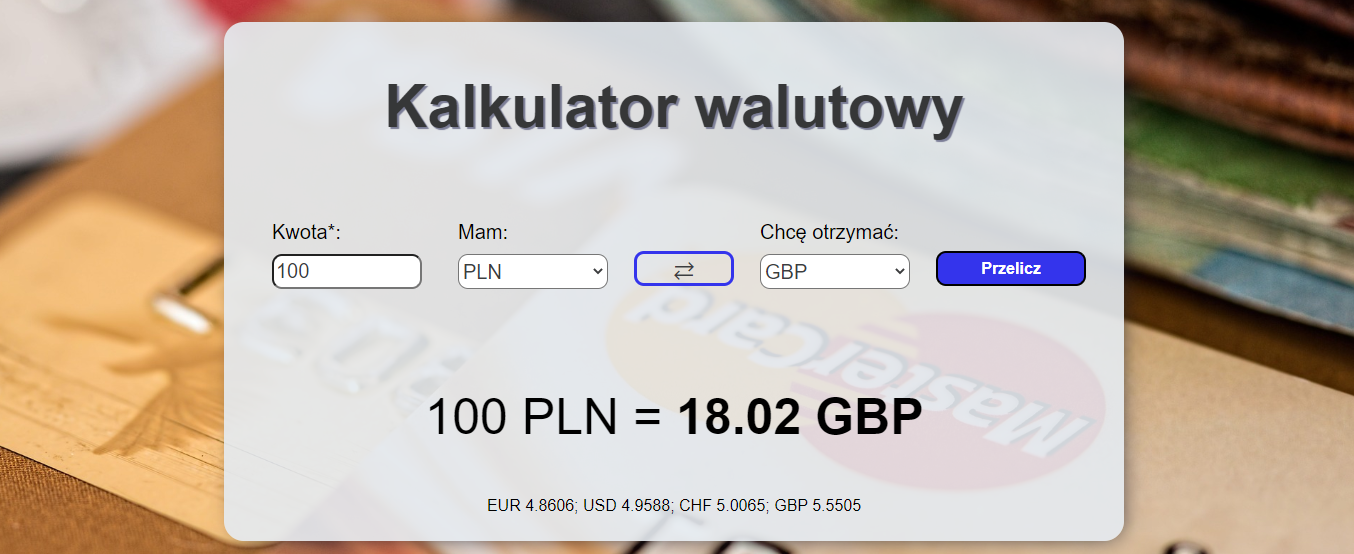
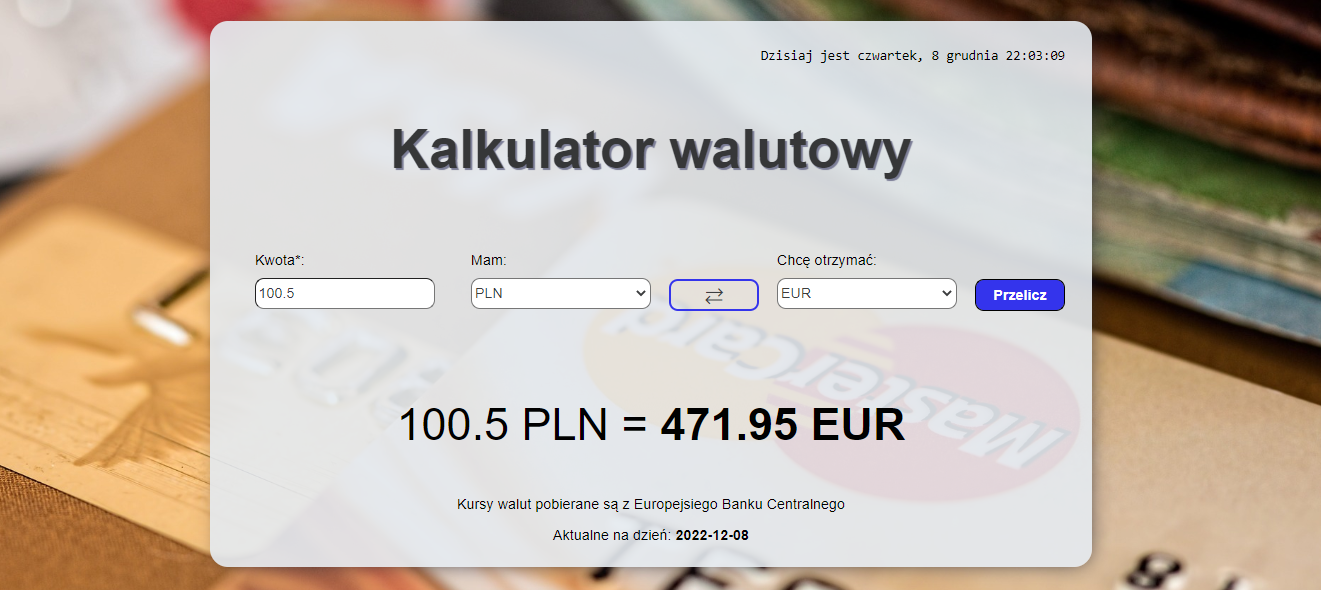
README.md updated

diff --git a/README.md b/README.md
@@ -5,25 +5,30 @@ https://q270311.github.io/currency-converter-react/
 ## Description 
 Project implemented during the _Frontend Developer od podstaw_ course at the **YouCode** -  online programming school.
 
-This website will help you convert money from different currencies. You can choose from:
-- Euro
-- US Dollar
-- Swiss Franc and 
-- British Pound.
+This page will help you convert money from different currencies. You can choose:
+- Euros
+- Dollar
+- Swiss franc and
+- British Pound
+**and many others**.
 
-The **currency exchange rate is fixed and does not change over time**, to four decimal places.
-Calculation result is displayed up to two decimal place
+Exchange rates are taken from the **European Central Bank** and updated every working day.
+
+Currency exchange rates have four decimal places.
+The calculation result is displayed with an accuracy of two decimal places
 
 ## Languages
  - HTML
  - CSS
  - BEM convention
  - Flex, Grid
+ - Responsive Web Design
+ - Styled components
  - JavaScript
  - ES6+ features
  - React.js
  - React Hooks: useState, useEffect, useRef, own Reaact Hooks
- - Styled components
+ - Work with API (axios) async/await
 ## Available Scripts
 
 This project was bootstrapped with [Create React App](https://github.com/facebook/create-react-app).
